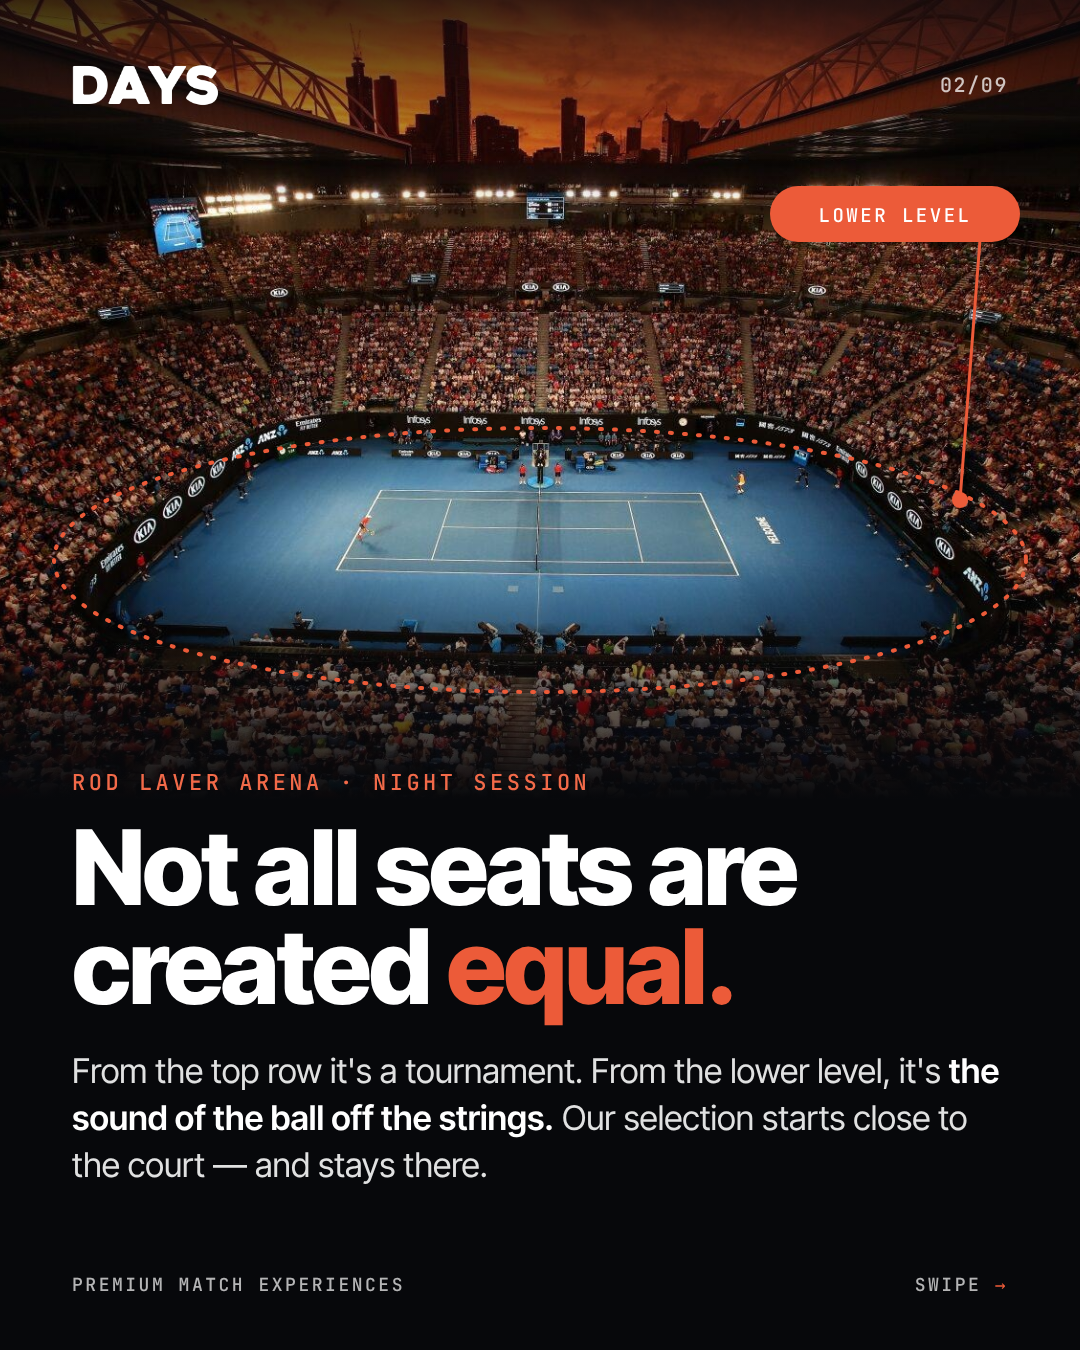
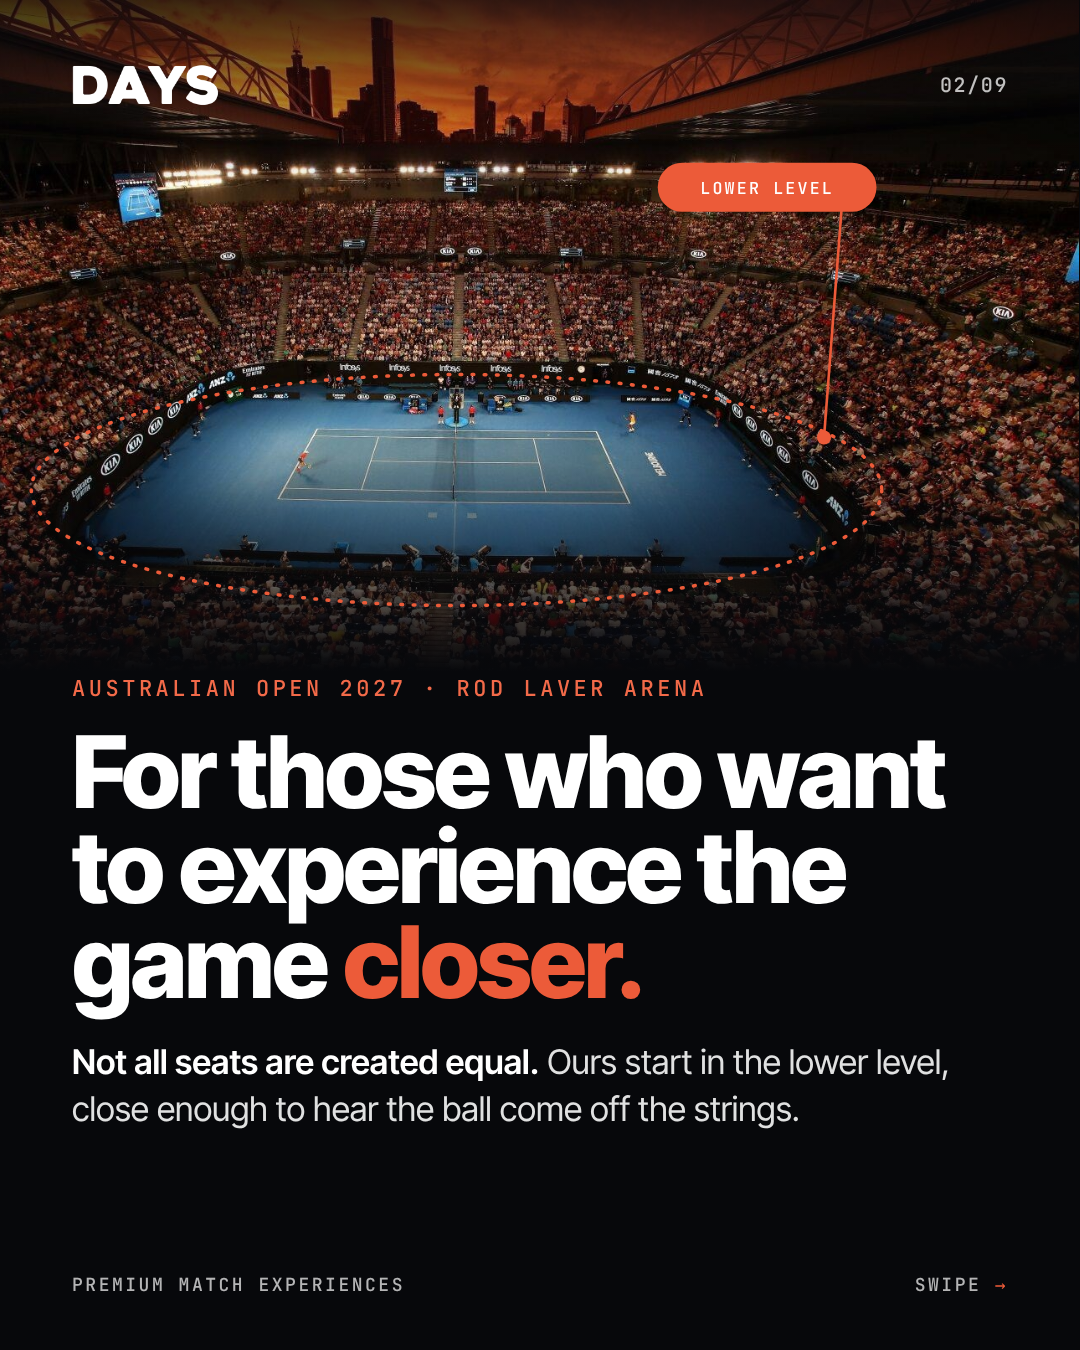
AO 2027: lead DAYS slides with 'For those who want to experience the game closer.'
Slide 2 and both captions now open on the positioning line. Approved AO
assets remain byte-identical copies.

Claude-Session: https://claude.ai/code/session_01Eb5aT3tpEevDBBbf6MCDFd

diff --git a/social/ao-2027/slides.html b/social/ao-2027/slides.html
@@ -45,11 +45,11 @@ h1,h2{font-weight:800;letter-spacing:-.025em;line-height:.95}
 .s1 h1 em{font-style:normal;color:var(--brand)}
 
 /* ---------- 02 positioning ---------- */
-.s2 .photo{position:absolute;left:0;top:0;width:1080px;height:800px;background:url(img/rla-sunset.jpg) no-repeat;background-size:1422px 800px;background-position:-170px 0}
-.s2 .photo::after{content:"";position:absolute;inset:0;background:linear-gradient(180deg,rgba(7,8,11,.8) 0,rgba(7,8,11,.35) 14%,rgba(7,8,11,0) 26%,rgba(7,8,11,0) 70%,var(--night) 100%)}
+.s2 .photo{position:absolute;left:0;top:0;width:1080px;height:700px;background:url(img/rla-sunset.jpg) no-repeat;background-size:1244px 700px;background-position:-165px 0}
+.s2 .photo::after{content:"";position:absolute;inset:0;background:linear-gradient(180deg,rgba(7,8,11,.8) 0,rgba(7,8,11,.35) 14%,rgba(7,8,11,0) 26%,rgba(7,8,11,0) 62%,var(--night) 96%)}
 .s2 svg.callout{position:absolute;left:0;top:0;z-index:3}
-.s2 .copy{position:absolute;left:72px;right:72px;top:770px}
-.s2 h2{font-size:104px;margin:22px 0 32px}
+.s2 .copy{position:absolute;left:72px;right:72px;top:676px}
+.s2 h2{font-size:100px;margin:22px 0 30px}
 .s2 h2 span{color:var(--brand)}
 
 /* ---------- 03 access ---------- */
@@ -115,18 +115,18 @@ h1,h2{font-weight:800;letter-spacing:-.025em;line-height:.95}
 <!-- 02 — The positioning -->
 <section class="slide s2">
   <div class="photo"></div>
-  <svg class="callout" width="1080" height="800" viewBox="0 0 1080 800" aria-hidden="true">
+  <svg class="callout" width="1080" height="700" viewBox="0 0 1080 700" aria-hidden="true"><g transform="translate(-16 0) scale(.875)">
     <ellipse cx="540" cy="560" rx="486" ry="132" fill="none" stroke="#EC5B39" stroke-width="4" stroke-dasharray="2 12" stroke-linecap="round"/>
     <line x1="960" y1="500" x2="980" y2="240" stroke="#EC5B39" stroke-width="3"/>
     <circle cx="960" cy="500" r="8" fill="#EC5B39"/>
     <rect x="770" y="186" width="250" height="56" rx="28" fill="#EC5B39"/>
     <text x="895" y="222" text-anchor="middle" font-family="JetBrains Mono" font-weight="500" font-size="19" letter-spacing="2.5" fill="#fff">LOWER LEVEL</text>
-  </svg>
+  </g></svg>
   <header class="hdr"><img class="days" src="img/days-wordmark.png" alt="DAYS"><span class="n">02/09</span></header>
   <div class="copy">
-    <p class="eyebrow">Rod Laver Arena · Night session</p>
-    <h2>Not all seats are created <span>equal.</span></h2>
-    <p class="lede">From the top row it's a tournament. From the lower level, it's <b>the sound of the ball off the strings.</b> Our selection starts close to the court — and stays there.</p>
+    <p class="eyebrow">Australian Open 2027 · Rod Laver Arena</p>
+    <h2>For those who want to experience the game <span>closer.</span></h2>
+    <p class="lede"><b>Not all seats are created equal.</b> Ours start in the lower level, close enough to hear the ball come off the strings.</p>
   </div>
   <footer class="ftr"><span>Premium match experiences</span><span class="swipe">Swipe</span></footer>
 </section>

diff --git a/social/ao-2027/caption.md b/social/ao-2027/caption.md
@@ -1,13 +1,13 @@
 # DAYS × Australian Open 2027 — launch carousel
 
 **Format:** 9-slide Instagram carousel, 4:5. Upload the files in `export/` in filename order.
-**Logo rule:** the AO Travel & Experiences logo appears only on the AO-approved assets (`approved/`), which are copied byte-for-byte and never edited. DAYS-made slides carry the DAYS wordmark only.
+**Approved assets:** slides 01 and 06–09 are AO-approved and must not be revised or altered in any way: no cropping, resizing, re-exporting, overlays or added text. `render.js` copies them byte-for-byte from `approved/`. The AO Travel & Experiences logo appears only on these. DAYS-made slides carry the DAYS wordmark only.
 **To edit the DAYS slides:** change `slides.html`, then run `node render.js` (pass `2` for 2× exports). This also re-copies the approved assets into `export/`.
 
 | # | Slide | Source |
 |---|---|---|
 | 01 | Cover: 11–31 January 2027, Melbourne | AO-approved |
-| 02 | *Not all seats are created equal.* | DAYS |
+| 02 | *For those who want to experience the game closer.* (key line) | DAYS |
 | 03 | *Closer, officially.* (Rod Laver Arena seating) | DAYS |
 | 04 | *Make a trip out of it.* (Melbourne) | DAYS |
 | 05 | *Choose your round.* (the four packages + enquiry) | DAYS |
@@ -20,9 +20,9 @@
 
 ## Caption (English)
 
-Now official.
+For those who want to experience the game closer.
 
-DAYS is an official AO Travel & Experiences reseller for the Australian Open 2027. That means seats from the official channel, chosen for one thing: how close they put you to the court.
+Now official: DAYS is an AO Travel & Experiences Official Reseller for the Australian Open 2027. That means seats from the official channel, chosen for one thing: how close they put you to the court.
 
 Lower level at Rod Laver Arena. Night sessions under the lights. Access to AO Reserve — The Gallery. And Melbourne in late January around it all: laneway coffee, long summer evenings, a whole city tuned to one tournament.
 
@@ -40,9 +40,9 @@ DM us or WhatsApp +62 812-2000-0185 to enquire.
 
 ## Caption (Bahasa Indonesia)
 
-Resmi.
+Untuk kamu yang ingin merasakan pertandingan lebih dekat.
 
-DAYS kini resmi menjadi official reseller AO Travel & Experiences untuk Australian Open 2027. Kursi dari jalur resmi, dipilih untuk satu hal: seberapa dekat kamu dengan lapangan.
+Kini resmi: DAYS adalah AO Travel & Experiences Official Reseller untuk Australian Open 2027. Kursi dari jalur resmi, dipilih untuk satu hal: seberapa dekat kamu dengan lapangan.
 
 Lower level di Rod Laver Arena. Night session di bawah lampu stadion. Akses ke AO Reserve — The Gallery. Dan Melbourne di akhir Januari: kopi di laneway, sore musim panas yang panjang, satu kota yang larut dalam satu turnamen.
 
